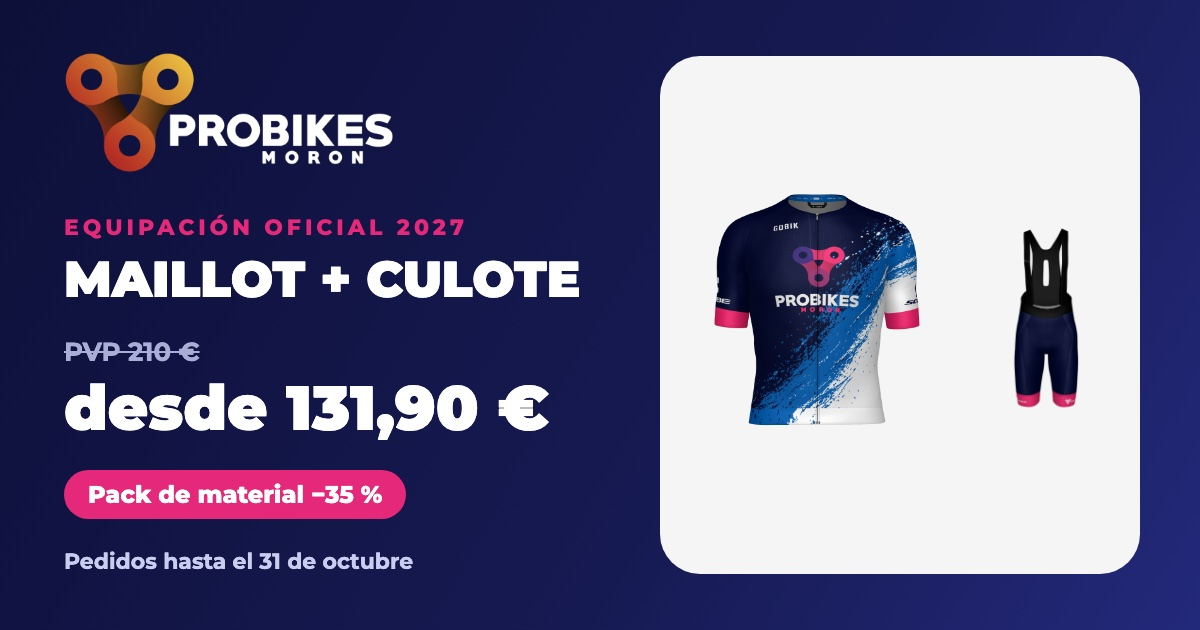
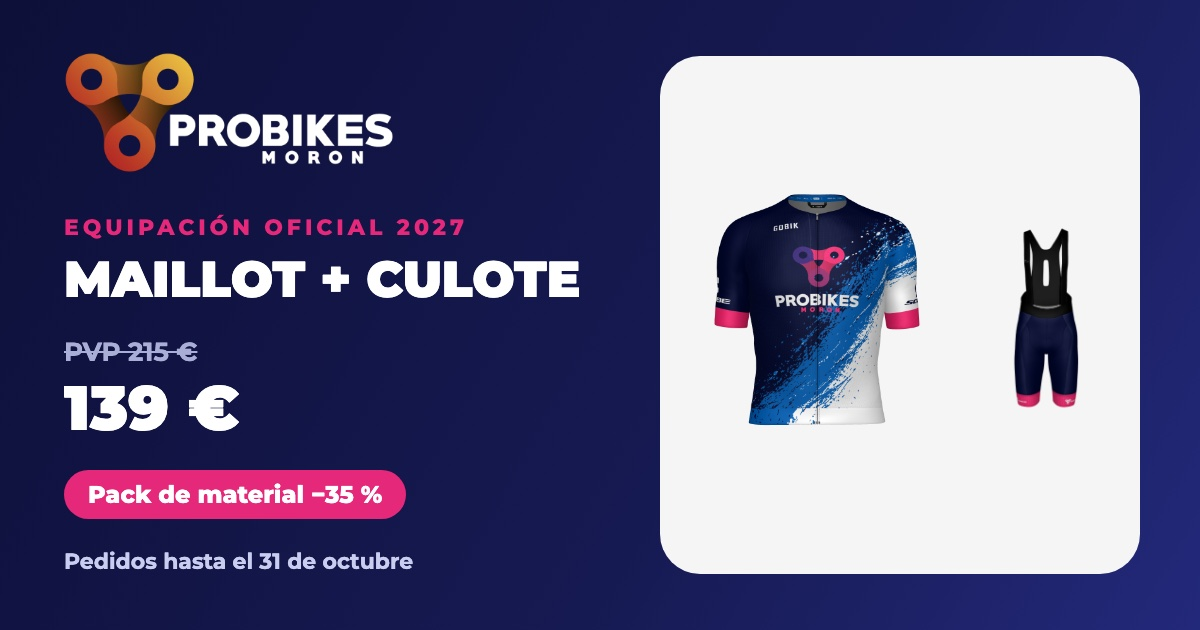
Versión B: nuevo catálogo y precios, sin GACOSUR, conjunto corto obligatorio

Changed region(s): [[0.0308, 0.6032, 0.4625, 0.6937], [0.1233, 0.5429, 0.185, 0.573]]

diff --git a/v2/index.html b/v2/index.html
@@ -12,7 +12,7 @@
 <meta property="og:site_name" content="Club Deportivo ProBikes Morón">
 <meta property="og:locale" content="es_ES">
 <meta property="og:title" content="Equipación oficial 2027 · ProBikes Morón">
-<meta property="og:description" content="Maillot + culote desde 131,90 € (PVP 210 €) y pack de material con hasta −35 %. Pedidos hasta el 31 de octubre.">
+<meta property="og:description" content="Maillot + culote por 139 € (PVP 215 €) y pack de material con hasta −35 %. Pedidos hasta el 31 de octubre.">
 <meta property="og:url" content="https://rjsanchez9-prog.github.io/probikes-moron/v2/">
 <meta property="og:image" content="https://rjsanchez9-prog.github.io/probikes-moron/v2/og.jpg">
 <meta property="og:image:width" content="1200">
@@ -21,7 +21,7 @@
 <meta name="twitter:card" content="summary_large_image">
 <meta name="twitter:title" content="Equipación oficial 2027 · ProBikes Morón">
 <meta name="twitter:image" content="https://rjsanchez9-prog.github.io/probikes-moron/v2/og.jpg">
-<meta name="description" content="Maillot + culote desde 131,90 € (PVP 210 €) y pack de material con hasta −35 %. Campaña del Club Deportivo ProBikes Morón hasta el 31 de octubre.">
+<meta name="description" content="Maillot + culote por 139 € (PVP 215 €) y pack de material con hasta −35 %. Campaña del Club Deportivo ProBikes Morón hasta el 31 de octubre.">
 <style>
[1 lines of base64/hex data omitted]
 :root{
@@ -249,7 +249,6 @@ footer{padding:40px 0 110px;color:var(--muted);font-size:13px;text-align:center}
 <header class="hero" id="top"><div class="wrap">
   <div class="tag">
     <span class="chip">Equipación oficial 2027</span>
-    <span class="chip" id="acosur">¿Vienes de GACOSUR? Esta campaña es para ti</span>
   </div>
   <h1>Tu equipación oficial <span>ProBikes Morón</span></h1>
   <div class="herokit" aria-label="Maillot y culote del club girando">
@@ -257,7 +256,7 @@ footer{padding:40px 0 110px;color:var(--muted);font-size:13px;text-align:center}
     <img id="hk2" alt="Culote ProBikes Morón" width="360" height="423">
   </div>
   <div class="kitprice">
-    <div><small>Equipación completa (maillot + culote) desde</small>
+    <div><small>Equipación completa (maillot + culote)</small>
       <div><span class="old" id="kpvp"></span><b id="kprice"></b></div></div>
     <span class="chip save" id="ksave"></span>
   </div>
@@ -327,7 +326,7 @@ footer{padding:40px 0 110px;color:var(--muted);font-size:13px;text-align:center}
 
     <div class="step" data-step="1">
       <h3>Elige tu equipación</h3>
-      <p class="sub" style="margin:6px 0 14px">Precio especial de campaña frente al PVP. Mínimo: un maillot y un culote.</p>
+      <p class="sub" style="margin:6px 0 14px">Precio especial de campaña frente al PVP. Mínimo obligatorio: maillot de manga corta + culote.</p>
       <div class="grid c2" id="clothes"></div>
       <div class="card" style="margin-top:14px"><h3>Tu equipación</h3>
         <ul class="cart cartlist" id="cart1" style="margin-top:10px"></ul>
@@ -433,7 +432,7 @@ footer{padding:40px 0 110px;color:var(--muted);font-size:13px;text-align:center}
   <h2>¿Tienes dudas?</h2>
   <div class="faq" style="margin-top:18px">
     <details><summary>¿Cuál es el mínimo de ropa que tengo que comprar?</summary>
-      <p>Como mínimo, una equipación completa: un maillot y un culote. A partir de ahí puedes comprar tantas prendas como quieras.</p></details>
+      <p>Como mínimo, una equipación completa corta: el maillot de manga corta y un culote. El maillot de manga larga y el chaleco no cuentan para el mínimo, pero puedes añadirlos. A partir de ahí puedes comprar tantas prendas como quieras.</p></details>
     <details><summary>¿Tengo que comprar el pack obligatoriamente?</summary>
       <p>No. Puedes comprar el pack completo (casco, zapatillas, guantes, gafas y calcetines) si quieres aprovechar el 35 % de descuento, comprar artículos sueltos con un 25 % de descuento, o no comprar nada de material.</p></details>
     <details><summary>¿Es obligatorio hacerme socio del club?</summary>
@@ -454,7 +453,7 @@ footer{padding:40px 0 110px;color:var(--muted);font-size:13px;text-align:center}
 
 </main>
 
-<footer class="wrap"><img class="footlogo" data-logo alt="ProBikes Morón"><br>Club Deportivo ProBikes Morón · Campaña hasta el 31 de octubre · Pedido mínimo: una equipación completa (maillot + culote)</footer>
+<footer class="wrap"><img class="footlogo" data-logo alt="ProBikes Morón"><br>Club Deportivo ProBikes Morón · Campaña hasta el 31 de octubre · Pedido mínimo: equipación completa corta (maillot manga corta + culote)</footer>
 
 <div class="sticky" id="sticky"><div class="t"><span>Tu pedido</span><b id="stotal">0,00 €</b><button class="nudge" id="snudge"></button></div><button class="btn" id="snext">Siguiente</button></div>
 <div class="toast" id="toast" role="status"></div>
@@ -474,11 +473,10 @@ const CFG = {
 };
 /* Equipación: pvp = precio de venta al público, price = precio especial de campaña. design = visor 3D disponible */
 const CLOTHES = [
-  {id:"maillot-cx",  name:"Maillot CX Pro manga corta", price:49.90, pvp:85,  design:"maillot"},
-  {id:"culote-abs",  name:"Culote Absolute",            price:82,    pvp:125, design:"culote"},
-  {id:"maillot-ml",  name:"Maillot manga larga",        price:65,    pvp:100, design:null},
-  {id:"chaleco",     name:"Chaleco cortavientos",       price:53,    pvp:80,  design:null},
-  {id:"culote-sol",  name:"Culote Absolute Solid",      price:87,    pvp:130, design:"culote"}
+  {id:"maillot-cx",  name:"Maillot CX Pro manga corta",      price:51, pvp:85,  design:"maillot"},
+  {id:"culote-sol",  name:"Culote Absolute Solid",           price:88, pvp:130, design:"culote"},
+  {id:"maillot-ml",  name:"Maillot manga larga Escalader",   price:70, pvp:115, design:null},
+  {id:"chaleco",     name:"Chaleco Plus 2.0",                price:54, pvp:80,  design:null}
 ];
 const SIZES = ["XS","S","M","L","XL","2XL","3XL"];
 /* Pack: pvp = null hasta tener el PVP real (se muestra «PVP próximamente»). */
@@ -510,7 +508,7 @@ function tick(){
   if(left<=0){c.innerHTML="";$("#deadline").textContent="La campaña ha finalizado.";return}
   const d=Math.floor(left/864e5),h=Math.floor(left/36e5)%24,m=Math.floor(left/6e4)%60,s=Math.floor(left/1e3)%60;
   c.innerHTML=[[d,"días"],[h,"horas"],[m,"min"],[s,"seg"]].map(x=>`<div><b>${String(x[0]).padStart(2,"0")}</b><small>${x[1]}</small></div>`).join("");
-  $("#deadline").textContent="La campaña termina el 31 de octubre. Pedido mínimo: una equipación completa (maillot + culote).";
+  $("#deadline").textContent="La campaña termina el 31 de octubre. Pedido mínimo: equipación completa corta (maillot manga corta + culote).";
 }
 tick();setInterval(tick,1000);
 
@@ -587,7 +585,7 @@ $$(".tabs button").forEach(b=>b.onclick=()=>pick(b.dataset.g));
 pick("maillot");
 
 /* ---------- Estado del pedido ---------- */
-let CART=store.get("pbk2_cart",[]).map(l=>{if(l.kind!=="ropa")return l;const c=CLOTHES.find(x=>x.id===l.id);return c?{...l,pvp:c.pvp,price:c.price}:l}).filter(l=>l.kind!=="ropa"||l.price!=null);
+let CART=store.get("pbk2_cart",[]).map(l=>{if(l.kind!=="ropa")return l;const c=CLOTHES.find(x=>x.id===l.id);return c?{...l,pvp:c.pvp,price:c.price}:null}).filter(l=>l&&(l.kind!=="ropa"||l.price!=null));
 const pct=(pvp,p)=>Math.round((1-p/pvp)*100);
 let PICK=store.get("pbk2_pick",{items:{},zapas:"MTB RC",guantes:"Carretera"});
 const packIds=PACK.map(p=>p.id);
@@ -725,9 +723,9 @@ function renderCart(){
   $$(".cartlist .x").forEach(b=>b.onclick=()=>{if(b.dataset.socio){$("#socio").checked=false;$("#socio").dispatchEvent(new Event("change"));return}const l=CART[+b.dataset.i];if(l&&l.kind==="pack")PICK.items[l.id]=null;CART.splice(+b.dataset.i,1);save();refreshPack();renderCart()});
   $("#total").textContent=eur(sum);$("#stotal").textContent=eur(sum);
   $("#totalnote").textContent=pend?`${pend} artículo(s) del pack pendientes de PVP; se sumarán al confirmar.`:(CART.some(l=>l.kind==="pack")?`Descuento del pack aplicado: ${Math.round(d*100)} %${hasAllPack()?"":" (con los 5 artículos sería 35 %)"}.`:"");
-  const k=kit(),miss=[!k.maillot&&"un maillot",!k.culote&&"un culote"].filter(Boolean);
-  $("#kit1").innerHTML=kitOK()?`<span style="color:var(--ok)">✓ Equipación completa: ya puedes continuar.</span>`:`Pedido mínimo: una equipación completa. Te falta añadir ${miss.join(" y ")}.`;
-  $("#kit").innerHTML=kitOK()?`<span style="color:var(--ok)">✓ Pedido mínimo cumplido: equipación completa.</span>`:`Pedido mínimo: una equipación completa. Te falta añadir ${miss.join(" y ")}. <a href="#pedido" data-gostep="1" style="color:var(--pink)">Elegir prendas →</a>`;
+  const k=kit(),miss=[!k.maillot&&"el maillot de manga corta",!k.culote&&"un culote"].filter(Boolean);
+  $("#kit1").innerHTML=kitOK()?`<span style="color:var(--ok)">✓ Equipación completa: ya puedes continuar.</span>`:`Pedido mínimo: equipación completa corta. Te falta añadir ${miss.join(" y ")}.`;
+  $("#kit").innerHTML=kitOK()?`<span style="color:var(--ok)">✓ Pedido mínimo cumplido: equipación completa.</span>`:`Pedido mínimo: equipación completa corta. Te falta añadir ${miss.join(" y ")}. <a href="#pedido" data-gostep="1" style="color:var(--pink)">Elegir prendas →</a>`;
   $("#gen").disabled=!kitOK();socioUI();
   const n1=document.querySelector('.step[data-step="1"] [data-next]');if(n1)n1.disabled=!kitOK();
   const nd=nudge(),sn=$("#snudge");sn.textContent=nd.t;sn.className="nudge"+(nd.ok?" ok":"");
@@ -738,7 +736,7 @@ $("#socio").onchange=()=>{store.set("pbk2_socio",$("#socio").checked);renderCart
 ["nombre","tel","mail"].forEach(id=>{$("#"+id).value=store.get("pbk2_"+id,"");$("#"+id).oninput=e=>{store.set("pbk2_"+id,e.target.value)}});
 
 /* ---------- WhatsApp (solo dudas), QR y envío del pedido ---------- */
-const kit=()=>({maillot:CART.some(l=>l.kind==="ropa"&&l.id.startsWith("maillot")),culote:CART.some(l=>l.kind==="ropa"&&l.id.startsWith("culote"))});
+const kit=()=>({maillot:CART.some(l=>l.kind==="ropa"&&l.id==="maillot-cx"),culote:CART.some(l=>l.kind==="ropa"&&l.id.startsWith("culote"))});
 const kitOK=()=>{const k=kit();return k.maillot&&k.culote};
 const waDudas=`https://wa.me/${CFG.whatsapp}?text=`+encodeURIComponent(`Hola, tengo una duda sobre la campaña de ${CFG.club}.`);
 $("#wadudas").href=waDudas;
@@ -772,7 +770,7 @@ function csvFallback(o){
 }
 const bad=(el,msg)=>{toast(msg);el.focus();return false};
 function validate(){
-  if(!kitOK())return bad($("#gen"),"Añade al menos un maillot y un culote");
+  if(!kitOK())return bad($("#gen"),"Añade el maillot de manga corta y un culote");
   if(!$("#nombre").value.trim().includes(" ")&&$("#nombre").value.trim().length<4)return bad($("#nombre"),"Indica tu nombre y apellidos");
   if($("#tel").value.replace(/\D/g,"").length<9)return bad($("#tel"),"Revisa tu teléfono");
   if(!/^\S+@\S+\.\S+$/.test($("#mail").value.trim()))return bad($("#mail"),"Revisa tu email");
@@ -813,7 +811,7 @@ $("#gen").onclick=async()=>{
 /* ---------- Asistente de 3 pasos ---------- */
 let STEP=1;
 function goStep(n,scroll=true){
-  if(n>=2&&!kitOK()){toast("Primero añade un maillot y un culote");n=1}
+  if(n>=2&&!kitOK()){toast("Primero añade el maillot de manga corta y un culote");n=1}
   STEP=Math.max(1,Math.min(4,n));
   $$(".step").forEach(x=>x.hidden=+x.dataset.step!==STEP);
   $$("#steps li").forEach((li,i)=>{li.firstElementChild.classList.toggle("on",i+1===STEP);li.firstElementChild.classList.toggle("done",i+1<STEP)});
@@ -834,7 +832,7 @@ function socioUI(){
   $("#socionext").textContent=on?"Continuar →":"Continuar sin ser socio →";
 }
 $$(".sopt").forEach(b=>b.onclick=()=>{SOCIO_ELEGIDO=true;$("#socio").checked=b.dataset.sopt==="1";$("#socio").dispatchEvent(new Event("change"))});
-$("#snext").onclick=()=>{if(STEP===1&&!kitOK()){toast("Añade primero un maillot y un culote");return}goStep(STEP+1)};
+$("#snext").onclick=()=>{if(STEP===1&&!kitOK()){toast("Añade primero el maillot de manga corta y un culote");return}goStep(STEP+1)};
 $("#snudge").onclick=()=>{if(!nudge().ok)goStep(2)};
 $("#again").onclick=()=>{SOCIO_ELEGIDO=false;$("#done").hidden=true;$("#wiz").hidden=false;buildPack();renderCart();goStep(1)};
 
@@ -847,7 +845,7 @@ $("#again").onclick=()=>{SOCIO_ELEGIDO=false;$("#done").hidden=true;$("#wiz").hi
   setInterval(()=>{if(document.hidden||!vis)return;i=(i+1)%F1.length;set()},200);
 })();
 (function kitPrice(){
-  const m=CLOTHES.filter(c=>c.id.startsWith("maillot")).sort((x,y)=>x.price-y.price)[0],c=CLOTHES.filter(c=>c.id.startsWith("culote")).sort((x,y)=>x.price-y.price)[0];
+  const m=CLOTHES.find(c=>c.id==="maillot-cx"),c=CLOTHES.find(c=>c.id==="culote-sol");
   const pvp=m.pvp+c.pvp,pr=m.price+c.price;
   $("#kpvp").textContent=eur(pvp);$("#kprice").textContent=eur(pr);$("#ksave").innerHTML=`Ahorras<br>${eur(pvp-pr)}`;
 })();
